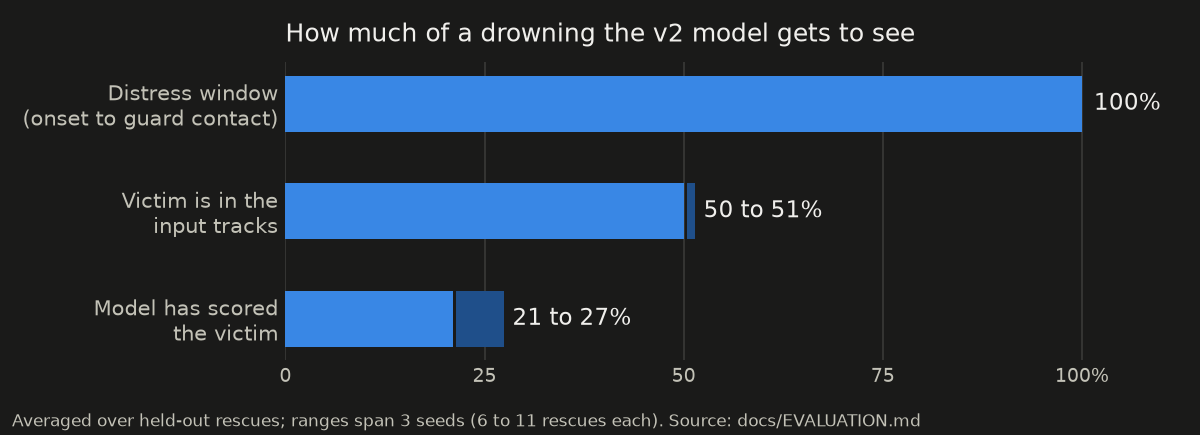
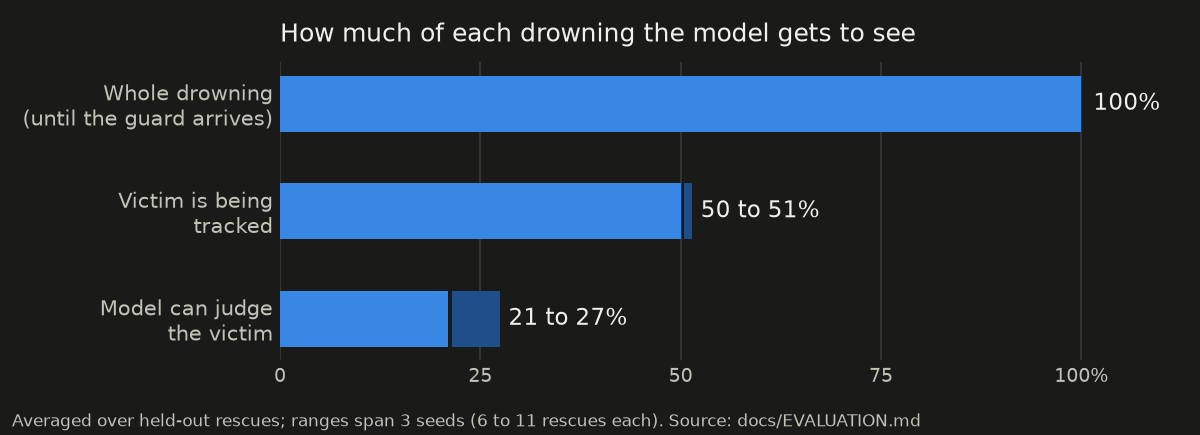
README: plainer wording for readers outside the field
Findings now give one plain headline number each and drop metric names;
the scoring finding explains the old flaw in everyday terms. Status and
next steps are two short paragraphs instead of comma lists, credits are
one sentence, and the chart labels use plain words.

diff --git a/README.md b/README.md
@@ -7,37 +7,40 @@
 [![Ruff](https://img.shields.io/endpoint?url=https://raw.githubusercontent.com/astral-sh/ruff/main/assets/badge/v2.json)](https://github.com/astral-sh/ruff)
 [![Last commit](https://img.shields.io/github/last-commit/nickpearlstone/Hydro-Knight)](https://github.com/nickpearlstone/Hydro-Knight/commits/main)
 
-Hydro-Knight is a computer vision project that tries to flag swimmers who may be drowning
-in pool video. It is built around what I learned as a lifeguard: most drownings are
-quiet. A swimmer slips under and doesn't come back up, usually without splashing or
-yelling, so a useful detector has to notice when someone disappears. This is a learning
-and portfolio project in active development, and nothing has been shown to work yet.
+Hydro-Knight is a computer vision system that watches pool video and flags swimmers who
+may be drowning.
 
-**Current scope (v1):** one wave pool. All 66 rescue clips come from one YouTube series,
-so the question is whether drowning can be detected at this pool, with these cameras;
-other pools may come later. A result counts only if it beats trivial baselines (box
-size, box confidence, missing frames) and holds up when every clip is tested once.
+## Why
+
+Most drownings are quiet. A swimmer slips under without splashing or calling for help,
+and in a crowded pool it can take too long for anyone to notice. I worked as a lifeguard,
+and this project tries to give a camera the same job: notice when someone stops swimming
+normally or disappears.
+
+The first version covers one wave pool, using 66 real rescues from one YouTube series of
+lifeguard rescues. Other pools may come later. This is a learning and portfolio project,
+and nothing has been shown to work yet. The sections below say where it stands and why.
 
 ## How it works
 
 ```mermaid
 flowchart LR
-    A[Pool video] --> B[YOLO11n-pose<br/>480px tiles at 1280px<br/>plus the whole frame]
-    B --> C[ByteTrack<br/>one ID per swimmer]
-    C --> D[30 fps time series<br/>per swimmer]
-    D --> E[TCN autoencoder<br/>score per 3 s window]
+    A[Pool video] --> B[Find swimmers<br/>YOLO11 pose, tiled]
+    B --> C[Follow each swimmer<br/>ByteTrack]
+    C --> D[Movement over time<br/>per swimmer]
+    D --> E[Score how unusual<br/>TCN autoencoder]
     E --> F[Alarm]
-    A -.-> G[Head detector in each<br/>camera's water zone<br/><i>planned</i>]
-    G -.-> H[Tracking through<br/>submersion<br/><i>planned</i>]
-    H -.-> I[Time under, progress,<br/>bobbing per swimmer<br/><i>planned</i>]
+    A -.-> G[Find heads in each<br/>camera's zone<br/><i>planned</i>]
+    G -.-> H[Follow swimmers<br/>under water<br/><i>planned</i>]
+    H -.-> I[Time under, progress,<br/>bobbing<br/><i>planned</i>]
     I -.-> F
 ```
 
-The current model is an anomaly detector: it learns normal swimming and scores how far
-each swimmer strays from it, since real drowning footage is too rare to train on each
-type. The dashed path is the planned redesign around heads in the water, with the
-autoencoder kept as a baseline. Both are tuned for recall, since a missed drowning costs
-far more than a false alarm.
+Each swimmer is found, given an ID, and followed over time. A model trained only on
+normal swimming scores how unusual each one looks, and a high score raises an alarm. The
+dashed path is the planned redesign, built around heads in the water. Both are tuned to
+miss as few drownings as possible, since a missed drowning costs far more than a false
+alarm.
 
 ## Five ways drowning shows up on camera
 
@@ -49,91 +52,89 @@ far more than a false alarm.
 | Flailing | Erratic, high-energy arm and leg movement |
 | Effort without progress | Swimming hard without moving through the water |
 
-## Findings so far
+## What I've learned so far
 
-Details in [docs/FINDINGS.md](docs/FINDINGS.md) and [docs/EVALUATION.md](docs/EVALUATION.md).
-Images are pixelated so no one can be recognized.
+Images are pixelated so no one can be recognized. Full numbers and methods are in
+[docs/FINDINGS.md](docs/FINDINGS.md) and [docs/EVALUATION.md](docs/EVALUATION.md).
 
-**1. Resolution and tiling matter more than the model.** YOLO at 1280px found 3 to 6
-times more swimmers than at 640px, and tiling raised a crowded frame from about 13 to 50.
-Against 736 hand-counted swimmers, the best setup still finds only 30 to 40%.
+**1. Small, distant swimmers are the hardest part.** Running the detector at a higher
+resolution, on overlapping pieces of each frame, found several times more swimmers. Even
+so, it finds only about a third of the people in a crowded wave pool.
 
-![YOLO at 640px vs 1280px](docs/images/pose_resolution.png)
+![Swimmers found at 640px and at 1280px](docs/images/pose_resolution.png)
 
-**2. Evaluation has to follow the victim.** Random scores "caught" every rescue in the
-first evaluation, because any flagged swimmer counted. Scoring now uses the victim's own
-track from onset to guard contact, next to random and shuffled baselines.
+**2. Measuring progress fairly took real work.** The first test gave credit whenever any
+swimmer on screen was flagged during a rescue. With about 20 people in view, random
+guessing looked perfect. Now a rescue only counts as caught if the alarm is on the person
+who was actually drowning, and every result is compared with random guessing.
 
-**3. Detection is the bottleneck.** The v2 model ranks victims above other swimmers
-(ROC-AUC 0.83, random 0.50) but catches 0 of 25 held-out rescues at 240 false alarms per
-hour or fewer. On average the victim is in the tracks for only half of the drowning.
+**3. The model rarely sees the victim.** It does rate victims as more unusual than other
+swimmers, but it catches none of 25 test rescues at an alarm rate a lifeguard could work
+with. On average, it can only judge the victim during about a quarter of each drowning.
 
 <picture>
   <source media="(prefers-color-scheme: dark)" srcset="docs/images/victim_window_dark.png">
-  <img alt="Share of the distress window: victim in tracks 50 to 51%, scored 21 to 27%" src="docs/images/victim_window_light.png">
+  <img alt="Share of a drowning the model sees: victim tracked about half the time, scored about a quarter" src="docs/images/victim_window_light.png">
 </picture>
 
-**4. Watching scores on video catches what numbers miss.** Boxes run from normal (green)
-to the alarm line (red). Here the highest score is the lifeguard filming in the
-foreground, and the victim has no box.
+**4. Watching the output on video catches what numbers miss.** Each box is a swimmer,
+colored from normal (green) to alarm (red). In this rescue, the most unusual-looking
+"swimmer" is the lifeguard filming in the foreground, and the real victim (circled) is
+not detected at all.
 
 ![Anomaly scores drawn on a rescue clip](docs/images/score_overlay.png)
 
-**5. Synthetic frames can match a real one at the detector level.** At a 0.05 cutoff, a
-Blender scene matched to a real frame gives YOLO11n-pose 62 to 64% recall (real: 65%) and
-RT-DETRv2 90 to 96% (real: 89%). Whether it helps train a detector is the next test
-([log](docs/research/2026-10-19-synthetic-realism-loop.md)).
+**5. Rendered pools can stand in for real ones.** A Blender scene matched to a real
+camera gets almost the same detection rates as the real frame, so labeled training images
+could be generated by the thousand. Whether they actually improve a detector is the next
+test.
 
-![Real frame next to the matched Blender render](docs/images/synthetic_vs_real.png)
+![A real frame next to its matched Blender render](docs/images/synthetic_vs_real.png)
 
-## Status
+## Where it stands
 
-**Built:** clip manifest and browser labeler (rescue timelines, victim clicks, swimmer
-counts, water zones), two-step pose extraction, per-swimmer features, a TCN autoencoder,
-a two-tier evaluation protocol, a pose benchmark, a score-overlay renderer, a Blender
-pipeline for labeled synthetic frames, MLflow tracking, and CI.
+The project has 66 real rescue clips, 51 of them fully labeled with when the drowning
+starts, when the lifeguard reaches the victim, and where the victim is (most labeled with
+Claude's help and checked by hand). It also has a pipeline that turns video into
+per-swimmer tracks, a first anomaly model, an evaluation that scores the actual victim,
+and a Blender pipeline for synthetic training images.
 
-**Dataset:** 74 clips (66 rescues, 4 normal, 4 unlabeled); 57 rescues extracted and 51
-labeled with onset, guard contact, save, and victim positions. Most labels were made by
-Claude following a written protocol, and every one was reviewed by hand.
+The next goal is to keep the victim in view for most of a drowning: a head detector
+trained on pool footage, tracking that holds on to a swimmer under water, and simple
+measurements such as time under water and forward progress. Before any result counts, it
+has to beat simple shortcuts, such as flagging whoever is hardest to see.
 
-**Next:** trivial baselines and grouped K-fold; a head detector fine-tuned on pool
-frames; tracking through submersion with per-swimmer measurements; pretraining on
-synthetic frames before fine-tuning on real ones.
+## Getting started
 
-## Quickstart
-
-Requires Python 3.11+ and [uv](https://docs.astral.sh/uv/). Or open it in Codespaces and
-run `make test` (CPU only):
-[![Open in GitHub Codespaces](https://github.com/codespaces/badge.svg)](https://codespaces.new/nickpearlstone/Hydro-Knight)
+Requires Python 3.11+ and [uv](https://docs.astral.sh/uv/).
 
 ```bash
-uv sync                          # install dependencies
-uv run python -m pytest          # run the tests
-uv run hydroknight --help        # every command, one line each
-make hooks                       # optional: run ruff before every commit
+uv sync                      # install dependencies
+uv run python -m pytest      # run the tests
+uv run hydroknight --help    # list every command
 ```
 
-Pose extraction runs on a Colab or Mac GPU ([docs/COLAB_TRAINING.md](docs/COLAB_TRAINING.md));
+To try it without installing anything, open it in Codespaces and run `make test`:
+
+[![Open in GitHub Codespaces](https://github.com/codespaces/badge.svg)](https://codespaces.new/nickpearlstone/Hydro-Knight)
+
+Pose extraction needs a GPU ([docs/COLAB_TRAINING.md](docs/COLAB_TRAINING.md)), and
 synthetic renders need Blender ([synthetic/README.md](synthetic/README.md)).
 
 ## Data and privacy
 
-No video is stored here, only source links, metadata, and labels. The footage isn't
-licensed for redistribution and shows identifiable people, often children. A clip counts
-as a distress event if a lifeguard stepped in. More in [docs/DATA_SOURCING.md](docs/DATA_SOURCING.md).
+No video is stored in this repository, only links to public videos, metadata, and
+labels. The footage shows identifiable people, often children, so every image here is
+pixelated. Details are in [docs/DATA_SOURCING.md](docs/DATA_SOURCING.md).
 
 ## Acknowledgements
 
-Built on [Ultralytics YOLO](https://github.com/ultralytics/ultralytics),
-[ByteTrack](https://arxiv.org/abs/2110.06864) (Zhang et al., 2022) via Roboflow's
-[trackers](https://github.com/roboflow/trackers) and [supervision](https://github.com/roboflow/supervision),
-[SAHI](https://arxiv.org/abs/2202.06934) (Akyon et al., 2022),
-[RT-DETRv2](https://arxiv.org/abs/2407.17140) (Lv et al., 2024),
-[MediaPipe](https://github.com/google-ai-edge/mediapipe), [Blender](https://www.blender.org)
-and [MPFB](https://github.com/makehumancommunity/mpfb2) with CC0 MakeHuman assets,
-[uv](https://github.com/astral-sh/uv) and [ruff](https://github.com/astral-sh/ruff). Thanks
-to the people who post lifeguard rescue footage publicly.
+Built with [Ultralytics YOLO](https://github.com/ultralytics/ultralytics),
+[ByteTrack](https://arxiv.org/abs/2110.06864), [SAHI](https://arxiv.org/abs/2202.06934),
+[RT-DETRv2](https://arxiv.org/abs/2407.17140),
+[MediaPipe](https://github.com/google-ai-edge/mediapipe), and [Blender](https://www.blender.org)
+with [MPFB](https://github.com/makehumancommunity/mpfb2) assets. Thanks to the people who
+share lifeguard rescue footage publicly.
 
 ## License
 
